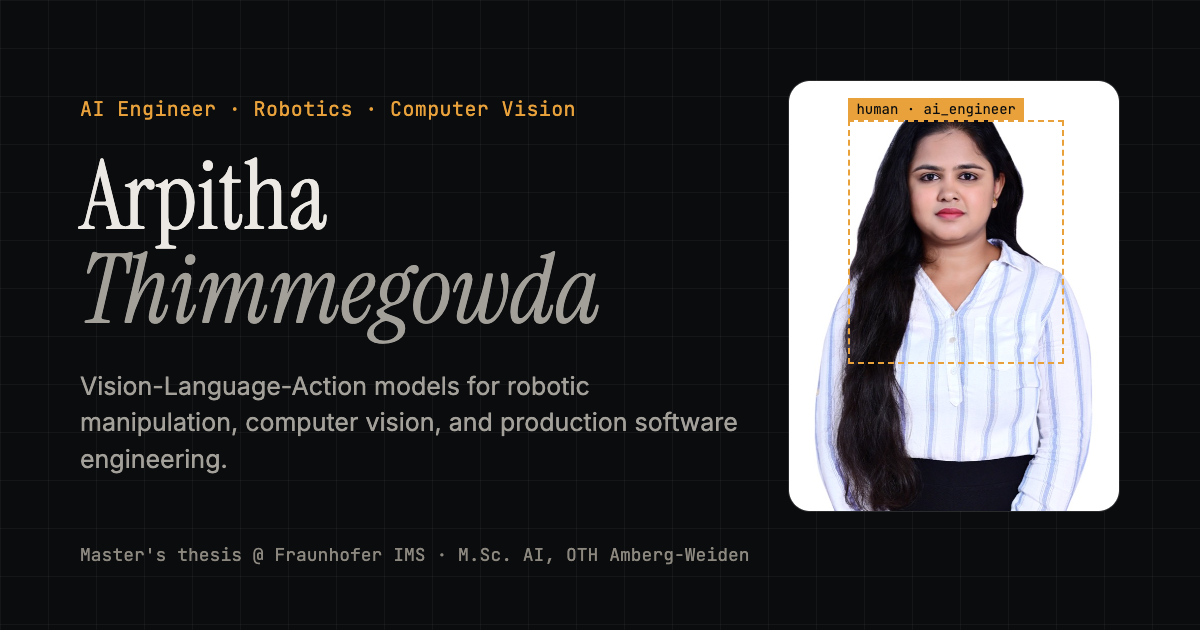
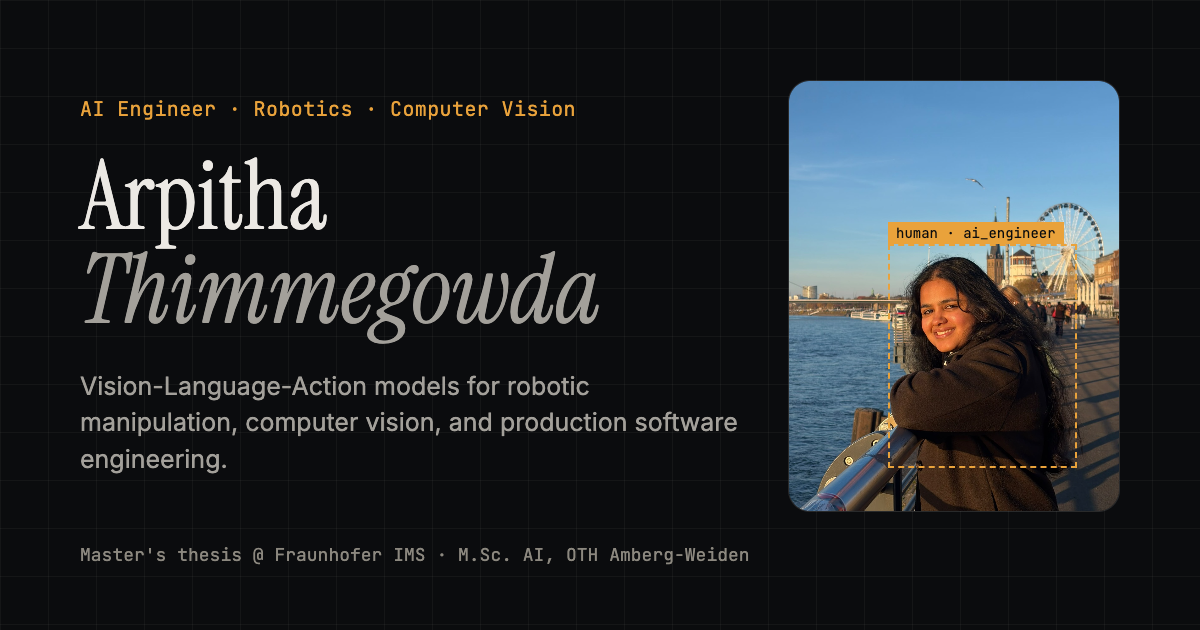
Use new profile photo in hero and social preview

Changed region(s): [[0.6475, 0.1206, 0.9558, 0.8143]]

diff --git a/src/components/Hero.tsx b/src/components/Hero.tsx
@@ -98,15 +98,15 @@ function Viewfinder() {
           fill
           priority
           sizes="(min-width: 1024px) 420px, 380px"
-          className="object-cover object-[50%_20%] grayscale-[15%]"
+          className="object-cover object-[50%_60%]"
         />
         <div aria-hidden className="absolute inset-0 bg-gradient-to-t from-ink/70 via-transparent to-transparent" />
 
         {/* Detection box */}
         <svg aria-hidden viewBox="0 0 100 125" preserveAspectRatio="none" className="absolute inset-0 size-full">
-          <rect x="18" y="10" width="64" height="72" fill="none" stroke="var(--color-accent)" strokeWidth="0.35" strokeDasharray="2 1.2" opacity="0.85" />
+          <rect x="30" y="47" width="56" height="64" fill="none" stroke="var(--color-accent)" strokeWidth="0.35" strokeDasharray="2 1.2" opacity="0.85" />
         </svg>
-        <div aria-hidden className="absolute left-[18%] top-[8%] -translate-y-full rounded-sm bg-accent px-1.5 py-0.5 font-mono text-[11px] font-medium text-ink">
+        <div aria-hidden className="absolute left-[30%] top-[37.6%] -translate-y-full rounded-sm bg-accent px-1.5 py-0.5 font-mono text-[11px] font-medium text-ink">
           human · ai_engineer
         </div>
 

diff --git a/src/content/interests.ts b/src/content/interests.ts
@@ -66,9 +66,6 @@ export const hobbies: Hobby[] = [
     title: "Travelling",
     blurb: "Exploring new places, cities and landscapes, from Karnataka to Bavaria and beyond.",
     illustration: "compass",
-    photo: "/images/personal/travel.jpg",
-    photoAlt: "Arpitha smiling on a riverside promenade on a sunny day, with a church spire and a Ferris wheel behind her",
-    photoPosition: "50% 58%",
   },
   {
     title: "Learning languages",
